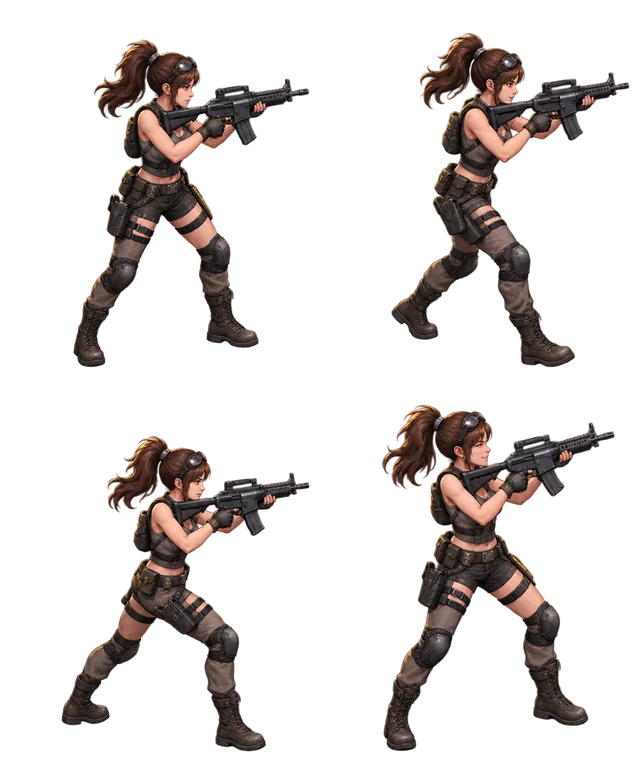
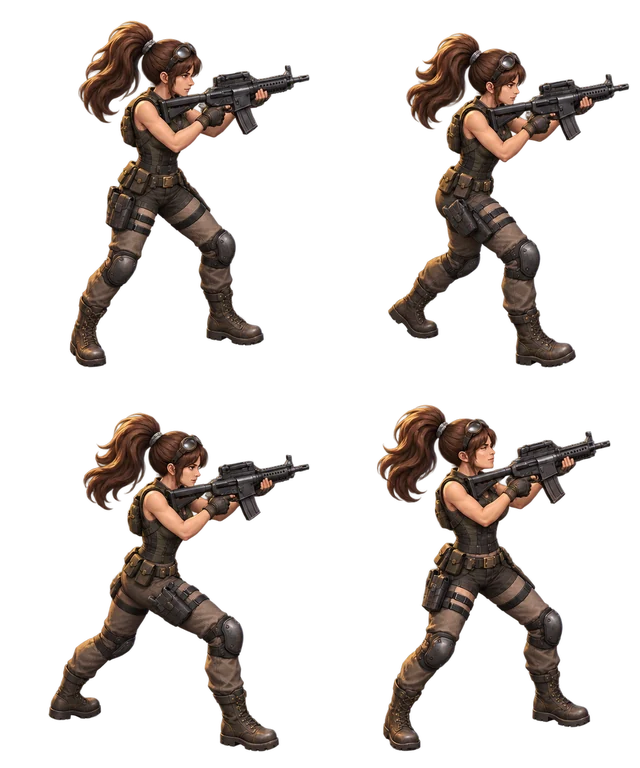
Dock boss health away from actors and refine survivors and storefronts

diff --git a/index.html b/index.html
@@ -104,6 +104,23 @@ dialog{width:min(400px,calc(100vw - 24px));max-height:85dvh;overflow:auto;touch-
   #bossHud{top:79px}
   #loadout{left:50%;right:auto;transform:translateX(-50%);bottom:calc(20px + env(safe-area-inset-bottom))}
 }
+
+#battleDock{
+  position:absolute;left:0;right:0;bottom:calc(28px + env(safe-area-inset-bottom));
+  display:flex;flex-direction:column;align-items:center;gap:6px;pointer-events:none;
+}
+#battleDock #loadout{position:relative;inset:auto;transform:none}
+#battleDock #bossHud{
+  position:relative;inset:auto;transform:none;width:min(350px,calc(100% - 16px));
+  padding:5px 8px;background:#17191fee;border-color:#726071;border-radius:9px;
+  font-size:11px;letter-spacing:.015em;pointer-events:none;
+}
+#bossHud[hidden],#bossTrio[hidden]{display:none}
+#bossHud progress{height:5px;margin:3px 0 0}
+#bossTrio{display:grid;grid-template-columns:repeat(3,minmax(0,1fr));gap:7px;text-align:left}
+#bossTrio>div:nth-child(2) progress{accent-color:#ff9860}
+#bossTrio>div:not(:nth-child(2)) progress{accent-color:#d090ee}
+@media(max-height:500px){#battleDock{bottom:calc(20px + env(safe-area-inset-bottom))}}
 </style></head><body><div id="hud"><div id="top" aria-label="전투 현황">
   <div class="hud-brand" aria-hidden="true">LAST<strong>DEFENSE</strong></div>
   <div class="pill health-hud">
@@ -124,7 +141,7 @@ dialog{width:min(400px,calc(100vw - 24px));max-height:85dvh;overflow:auto;touch-
     <div><span class="hud-gold" aria-hidden="true">G</span> <b id="coins" aria-label="보유 골드">0</b></div>
     <div><span class="hud-label">무기 Lv.</span> <b id="level">1</b></div>
   </div>
-</div><div id="bossHud" hidden><strong id="bossStatus" role="status"></strong><progress id="bossBar" aria-label="거대 좀비 체력" hidden></progress><div id="bossTrio" hidden><div><span id="bossLabel0">왼쪽</span><progress id="bossHp0" aria-label="왼쪽 보스 체력"></progress></div><div><span id="bossLabel1">중앙</span><progress id="bossHp1" aria-label="중앙 보스 체력"></progress></div><div><span id="bossLabel2">오른쪽</span><progress id="bossHp2" aria-label="오른쪽 보스 체력"></progress></div></div></div><div id="damage" aria-hidden="true"></div><div id="loadout" hidden><div id="weaponStats"></div><div id="weaponSlots"></div><div id="itemSlots"></div><div id="obstacleMeters"></div></div><div id="bottom">화면을 좌우로 드래그해서 이동 · 정면으로 자동 발사</div></div><div id="panel" data-screen="start"><div id="card"><h1 id="title">LAST <strong>DEFENSE</strong></h1><p id="description">방어선을 지켜라!<br>좌우로 움직여 좀비와 같은 줄에 서세요. 정면으로 자동 발사합니다.<br>웨이브를 막아내고 무기를 강화하세요.</p><div id="choices"><div id="avatarChoices" role="group" aria-label="캐릭터 선택"><button type="button" data-avatar="male" aria-pressed="true">남성</button><button type="button" data-avatar="female" aria-pressed="false">여성</button></div><button id="start">일반 시작 ▶</button><button id="continueRun" hidden></button><button id="hardStart" class="secondary">하드 시작 ▶</button></div></div></div><dialog id="purchaseDialog" aria-labelledby="purchaseName"><strong id="purchaseName"></strong><p id="purchaseDetails"></p><p id="purchaseMatchup"></p><button id="purchaseConfirm" type="button">구매</button><form method="dialog"><button class="secondary">닫기</button></form></dialog><dialog id="itemsDialog" aria-labelledby="itemsTitle"><strong id="itemsTitle">ITEM</strong><p id="itemGold"></p><div id="itemOptions"></div><form method="dialog"><button class="secondary">닫기</button></form></dialog><div id="error">3D 화면을 불러오지 못했습니다. 인터넷 연결을 확인한 뒤 새로고침해 주세요.</div><script type="importmap">{"imports":{"three":"https://cdn.jsdelivr.net/npm/three@0.160.1/build/three.module.js"}}</script><script type="module">
+</div><div id="damage" aria-hidden="true"></div><div id="battleDock"><div id="bossHud" hidden><strong id="bossStatus" role="status"></strong><progress id="bossBar" aria-label="거대 좀비 체력" hidden></progress><div id="bossTrio" hidden><div><span id="bossLabel0">왼쪽</span><progress id="bossHp0" aria-label="왼쪽 보스 체력"></progress></div><div><span id="bossLabel1">중앙</span><progress id="bossHp1" aria-label="중앙 보스 체력"></progress></div><div><span id="bossLabel2">오른쪽</span><progress id="bossHp2" aria-label="오른쪽 보스 체력"></progress></div></div></div><div id="loadout" hidden><div id="weaponStats"></div><div id="weaponSlots"></div><div id="itemSlots"></div><div id="obstacleMeters"></div></div></div><div id="bottom">화면을 좌우로 드래그해서 이동 · 정면으로 자동 발사</div></div><div id="panel" data-screen="start"><div id="card"><h1 id="title">LAST <strong>DEFENSE</strong></h1><p id="description">방어선을 지켜라!<br>좌우로 움직여 좀비와 같은 줄에 서세요. 정면으로 자동 발사합니다.<br>웨이브를 막아내고 무기를 강화하세요.</p><div id="choices"><div id="avatarChoices" role="group" aria-label="캐릭터 선택"><button type="button" data-avatar="male" aria-pressed="true">남성</button><button type="button" data-avatar="female" aria-pressed="false">여성</button></div><button id="start">일반 시작 ▶</button><button id="continueRun" hidden></button><button id="hardStart" class="secondary">하드 시작 ▶</button></div></div></div><dialog id="purchaseDialog" aria-labelledby="purchaseName"><strong id="purchaseName"></strong><p id="purchaseDetails"></p><p id="purchaseMatchup"></p><button id="purchaseConfirm" type="button">구매</button><form method="dialog"><button class="secondary">닫기</button></form></dialog><dialog id="itemsDialog" aria-labelledby="itemsTitle"><strong id="itemsTitle">ITEM</strong><p id="itemGold"></p><div id="itemOptions"></div><form method="dialog"><button class="secondary">닫기</button></form></dialog><div id="error">3D 화면을 불러오지 못했습니다. 인터넷 연결을 확인한 뒤 새로고침해 주세요.</div><script type="importmap">{"imports":{"three":"https://cdn.jsdelivr.net/npm/three@0.160.1/build/three.module.js"}}</script><script type="module">
 import * as THREE from 'https://cdn.jsdelivr.net/npm/three@0.160.1/build/three.module.js';
 const $=id=>document.getElementById(id);const scene=new THREE.Scene();scene.background=new THREE.Color(0xa8d1e4);scene.fog=new THREE.Fog(0xa8d1e4,28,95);const camera=new THREE.PerspectiveCamera(56,innerWidth/innerHeight,.1,140);let renderer;
 try {
@@ -525,7 +542,12 @@ if(big){
   e.userData.core=core;
 }
 e.scale.setScalar(chief?2.68:big?2.145:1);const health=enemyHealth(big?(chief?480:bossRole?290:180+wave*22):(role==='baby'?27:role==='carpenter'?55:40)+wave*10);
-e.userData={gait,walkDistance:0,core:e.userData.core,arrival:chief?1.15:0,hp:health,maxHp:health,speed:enemySpeed((big?1.7:role==='baby'?3.2:role==='carpenter'?2:2.5)+wave*.18),attack:chief?35:big?25:10,big,chief,bossRole,hitRadius:chief?2.9:undefined,runner,ranged,labelHeight:big?4.7:3.15*body,shotCooldown:0,phase:Math.random()*7};e.userData.label=textSprite(e.userData.hp);e.userData.label.position.set(0,e.userData.labelHeight??(big?4.7:3.15*body),0);e.add(e.userData.label);scene.add(e);e.userData.illustration=chief?'chief':big?'armored':ranged?'ranged':
+e.userData={gait,walkDistance:0,core:e.userData.core,arrival:chief?1.15:0,hp:health,maxHp:health,speed:enemySpeed((big?1.7:role==='baby'?3.2:role==='carpenter'?2:2.5)+wave*.18),attack:chief?35:big?25:10,big,chief,bossRole,hitRadius:chief?2.9:undefined,runner,ranged,labelHeight:big?4.7:3.15*body,shotCooldown:0,phase:Math.random()*7};if(!big){
+  e.userData.label=textSprite(e.userData.hp);
+  e.userData.label.position.y=e.userData.labelHeight;
+  e.add(e.userData.label);
+}
+scene.add(e);e.userData.illustration=chief?'chief':big?'armored':ranged?'ranged':
   ({police:'police',nurse:'nurse',carpenter:'worker'}[role]??(supportX!==null?'heavy':'infected'));
 e.userData.artHeight=(big?2.43:2.75)*body*e.scale.y;addContactShadow(e,body*e.scale.x*1.85,body*e.scale.x*1.2);enemies.push(e);if(big)updateBossHud()}const animalStats={
   dog:{size:.84,hp:24,speed:4.6,color:0xa66d56,attack:10},
@@ -600,7 +622,7 @@ function showHurt(id){
     hurtTimers.delete(id);
   },260));
 }
-function updateLabel(e){e.remove(e.userData.label);e.userData.label.material.map.dispose();e.userData.label.material.dispose();e.userData.label=textSprite(Math.max(0,Math.ceil(e.userData.hp)));e.userData.label.position.set(0,e.userData.labelHeight??(e.userData.big?4.7:3.15),0);e.add(e.userData.label)}function burst(x,y,z,color=0xffb75b){for(let i=0;i<6;i++){const p=sphere(.06,mat(color,{emissive:color,emissiveIntensity:.5}),x,y,z);p.userData={life:.35,vel:new THREE.Vector3((Math.random()-.5)*5,Math.random()*4,(Math.random()-.5)*5)};particles.push(p)}}function updateBossHud() {
+function updateLabel(e){if(!e.userData.label)return;e.remove(e.userData.label);e.userData.label.material.map.dispose();e.userData.label.material.dispose();e.userData.label=textSprite(Math.max(0,Math.ceil(e.userData.hp)));e.userData.label.position.set(0,e.userData.labelHeight??(e.userData.big?4.7:3.15),0);e.add(e.userData.label)}function burst(x,y,z,color=0xffb75b){for(let i=0;i<6;i++){const p=sphere(.06,mat(color,{emissive:color,emissiveIntensity:.5}),x,y,z);p.userData={life:.35,vel:new THREE.Vector3((Math.random()-.5)*5,Math.random()*4,(Math.random()-.5)*5)};particles.push(p)}}function updateBossHud() {
   const bosses=enemies.filter(enemy=>enemy.userData.big);
   const boss=bosses.find(enemy=>enemy.userData.chief)||bosses[0];
   const warning=wave%5===0 && spawned===toSpawn-1 && spawnTimer>0;
@@ -614,7 +636,7 @@ function updateLabel(e){e.remove(e.userData.label);e.userData.label.material.map
       const data=enemy?.userData;
       const status=!data?' · 전투 종료':data.windup>0?' · 돌진 준비':data.dash>0?' · 돌진':data.stun>0?' · 저지':'';
       const label=$('bossLabel'+i);
-      label.textContent=['왼쪽','중앙','오른쪽'][i]+status;
+      label.textContent=['좌측 서브보스','중앙 보스','우측 서브보스'][i]+status;
       label.classList.toggle('alert',Boolean(data?.windup>0||data?.dash>0));
       const bar=$('bossHp'+i);
       bar.max=data?.maxHp??1;
@@ -968,9 +990,11 @@ function clearRemains(){
 function leaveBody(enemy){
   updateHitFlash(enemy,Infinity);
   const label=enemy.userData.label;
-  enemy.remove(label);
-  label.material.map.dispose();
-  label.material.dispose();
+  if(label){
+    enemy.remove(label);
+    label.material.map.dispose();
+    label.material.dispose();
+  }
   enemy.rotation.set(0,0,Math.PI/2);
   enemy.position.y=.35;
   scene.add(enemy);
@@ -1350,22 +1374,50 @@ function pilotBlock(w,h,d,m,x,y,z,parent=designPilot){
   mesh.position.set(x,y,z);mesh.castShadow=true;mesh.receiveShadow=true;parent.add(mesh);return mesh;
 }
 const windowGlass=pilotMat(0x263743,.18);
+const concreteTrim=pilotMat(0x78726b);
+const shutterSteel=pilotMat(0x343b40,.24);
+const awningCanvas=pilotMat(0x6c4638);
+function facadeDetail(w,h,d,material,x,y,z){
+  const detail=pilotBlock(w,h,d,material,x,y,z);
+  detail.castShadow=false;
+  return detail;
+}
 for(let z=4;z>-70;z-=12){
   for(const side of [-1,1]){
     const x=side*11.3;
-    const height=5+(Math.abs(z)%3)*1.6;
+    const block=Math.round((4-z)/12);
+    const convertedWarehouse=(block+(side>0?1:0))%3===0;
+    const height=convertedWarehouse?5.45:6.4+(block%3)*.7;
     pilotBlock(5.8,height,8.6,brickWall,x,height/2-.05,z-3.1);
     pilotBlock(6.1,.38,9,pilotEdge,x,height+.05,z-3.1);
     const facadeX=x-side*2.99;
     pilotBlock(.24,.32,8.75,pilotEdge,facadeX,.62,z-3.1);
     pilotBlock(.24,.22,8.75,pilotEdge,facadeX,height-.56,z-3.1);
-    pilotBlock(.19,2.18,1.42,pilotRust,facadeX,1.16,z-.72);
+    if(convertedWarehouse){
+      facadeDetail(.31,2.5,3.05,concreteTrim,facadeX,1.26,z-1.15);
+      facadeDetail(.14,2.2,2.7,shutterSteel,facadeX-side*.22,1.15,z-1.15);
+      for(let slat=1;slat<8;slat++){
+        facadeDetail(.038,.03,2.63,pilotEdge,facadeX-side*.31,.16+slat*.255,z-1.15);
+      }
+      facadeDetail(1,.12,3.6,awningCanvas,facadeX-side*.47,2.6,z-1.15).rotation.z=side*.13;
+    }else{
+      facadeDetail(.28,2.4,1.55,concreteTrim,facadeX,1.19,z-.72);
+      facadeDetail(.13,2.13,1.25,pilotRust,facadeX-side*.2,1.08,z-.72);
+      facadeDetail(.04,.72,.18,shutterSteel,facadeX-side*.29,1.58,z-.72);
+      facadeDetail(.16,2.08,2.56,windowGlass,facadeX,1.24,z-4.7);
+      facadeDetail(.19,2.14,.09,concreteTrim,facadeX-side*.11,1.24,z-4.7);
+      facadeDetail(.85,.13,2.86,awningCanvas,facadeX-side*.38,2.4,z-4.7).rotation.z=side*.16;
+    }
+    facadeDetail(.12,height-.55,.11,shutterSteel,facadeX-side*.13,height*.5,z-6.77);
+    facadeDetail(1.2,.56,1.5,shutterSteel,x-side*1.5,height+.48,z-5.8);
     for(let level=2.52;level<height-1;level+=1.5){
       for(let offset of [-2,0,2]){
         const frame=pilotBlock(.22,.93,1.12,pilotEdge,x-side*3.06,level,z-3.1+offset);
         frame.castShadow=false;
         const glass=pilotBlock(.10,.70,.87,(offset===0&&level<3&&side<0)?pilotWindow:windowGlass,x-side*3.22,level,z-3.1+offset);
         glass.castShadow=false;
+        facadeDetail(.052,.74,.065,shutterSteel,x-side*3.29,level,z-3.1+offset);
+        facadeDetail(.16,.075,1.17,concreteTrim,x-side*3.3,level-.47,z-3.1+offset);
       }
     }
     pilotBlock(1.1,1.1,1.2,pilotRust,side*7.65,.55,z+1);
@@ -1489,7 +1541,8 @@ const atlasManifest=[
   ['./assets/actors-hero.webp',['hero-ready','hero-step-a','hero-step-b','hero-fire']],
   ['./assets/actors-infected.webp',['infected','police','nurse','worker']],
   ['./assets/actors-boss.webp',['armored','chief','ranged','heavy']],
-  ['./assets/actors-animals.webp',['dog','bear','tiger','male']]
+  ['./assets/actors-animals.webp',['dog','bear','tiger','male']],
+  ['./assets/actors-male.webp',['male-ready','male-step-a','male-step-b','male-fire']]
 ];
 function loadActorAtlas(url,frames){
   const img=document.createElement('img');
@@ -1541,15 +1594,19 @@ function applyPaintedFrame(sprite,frame,height){
 }
 function updateIllustratedActors(lateralVelocity){
   const female=avatar==='female';
-  let pose=female?'hero-ready':'male';
-  if(female&&playing){
-    if(muzzleTime>0)pose='hero-fire';
-    else if(Math.abs(lateralVelocity)>.5)pose=Math.floor(elapsed*7)%2?'hero-step-a':'hero-step-b';
+  const actor=female?'hero':'male';
+  let action='ready';
+  if(playing){
+    if(muzzleTime>0)action='fire';
+    else if(Math.abs(lateralVelocity)>.5)action=Math.floor(elapsed*7)%2?'step-a':'step-b';
   }
-  const heroFrame=actorFrames[pose]??actorFrames[female?'hero-ready':'male'];
+  const ready=actor+'-ready';
+  const requested=actor+'-'+action;
+  const pose=actorFrames[requested]?requested:actorFrames[ready]?ready:female?'hero-ready':'male';
+  const heroFrame=actorFrames[pose];
   heroSprite.visible=Boolean(heroFrame);
   if(heroFrame){
-    applyPaintedFrame(heroSprite,heroFrame,3.04);
+    applyPaintedFrame(heroSprite,heroFrame,female?3.04:3.24);
     heroSprite.position.copy(player.position);
     heroSprite.position.y=.09+(playing?Math.sin(elapsed*7)*.017:0);
     heroSprite.material.rotation=-Math.min(.05,recoil*.9);
@@ -1599,11 +1656,15 @@ function drawIllustratedEnemy(enemy,fallen){
   sprite.material.color.setHex(fallen?0x957e79:data.flashTime>0?0xffc0a7:0xf6f0ed);
 }
 const muzzleAnchors={
-  'hero-ready':[.966,.763],
-  'hero-step-a':[.966,.779],
-  'hero-step-b':[.966,.737],
-  'hero-fire':[.919,.867],
-  male:[.966,.693]
+  'hero-ready':[.966,.798],
+  'hero-step-a':[.966,.775],
+  'hero-step-b':[.966,.784],
+  'hero-fire':[.906,.845],
+  male:[.966,.693],
+  'male-ready':[.969,.714],
+  'male-step-a':[.966,.721],
+  'male-step-b':[.969,.747],
+  'male-fire':[.966,.789]
 };
 
 updateHUD();loop();</script></body></html>

diff --git a/DESIGN-2D5-STATUS.md b/DESIGN-2D5-STATUS.md
@@ -60,3 +60,10 @@ Browser preview reached WebGL initialization error. No actual gameplay or mobile
 - Illustrated full-body replacements for both survivors, the ordinary and specialist infected, ranged infected, dog/bear/tiger variants, armored bosses, and the final boss. Sprites are integrated into the 3D scene with depth testing and independent contact shadows.
 - The female survivor selects ready, sidestep, and recoil poses. Enemies use pose motion driven by ground distance, hit tint, and distinct boss charge and casualty poses. Sprites fall back to the existing actor meshes if their art fails to load.
 - Hit bounds, damage, shop behavior, items, and waves remain driven by the existing game. Illustrated survivors carry a drawn weapon silhouette across the reload and equipment states.
+
+## Boss HUD and storefront pass
+
+- Boss health lives in the bottom combat dock with the loadout. Main and side bosses do not create world-space health labels. Wave 10 retains an independent meter for the left guard, central boss and right guard.
+- The city blocks now alternate boarded stores and shuttered warehouses, with entrance trim, window mullions, awnings, drainage pipes and rooftop equipment.
+- Both survivors have independent ready, step and firing poses with calibrated muzzle positions. The male sprite from the animal atlas remains a fallback.
+- Logic checks verify direct boss damage, side-boss defeat, no sprite above any boss, and the male and female combat pose selection.
